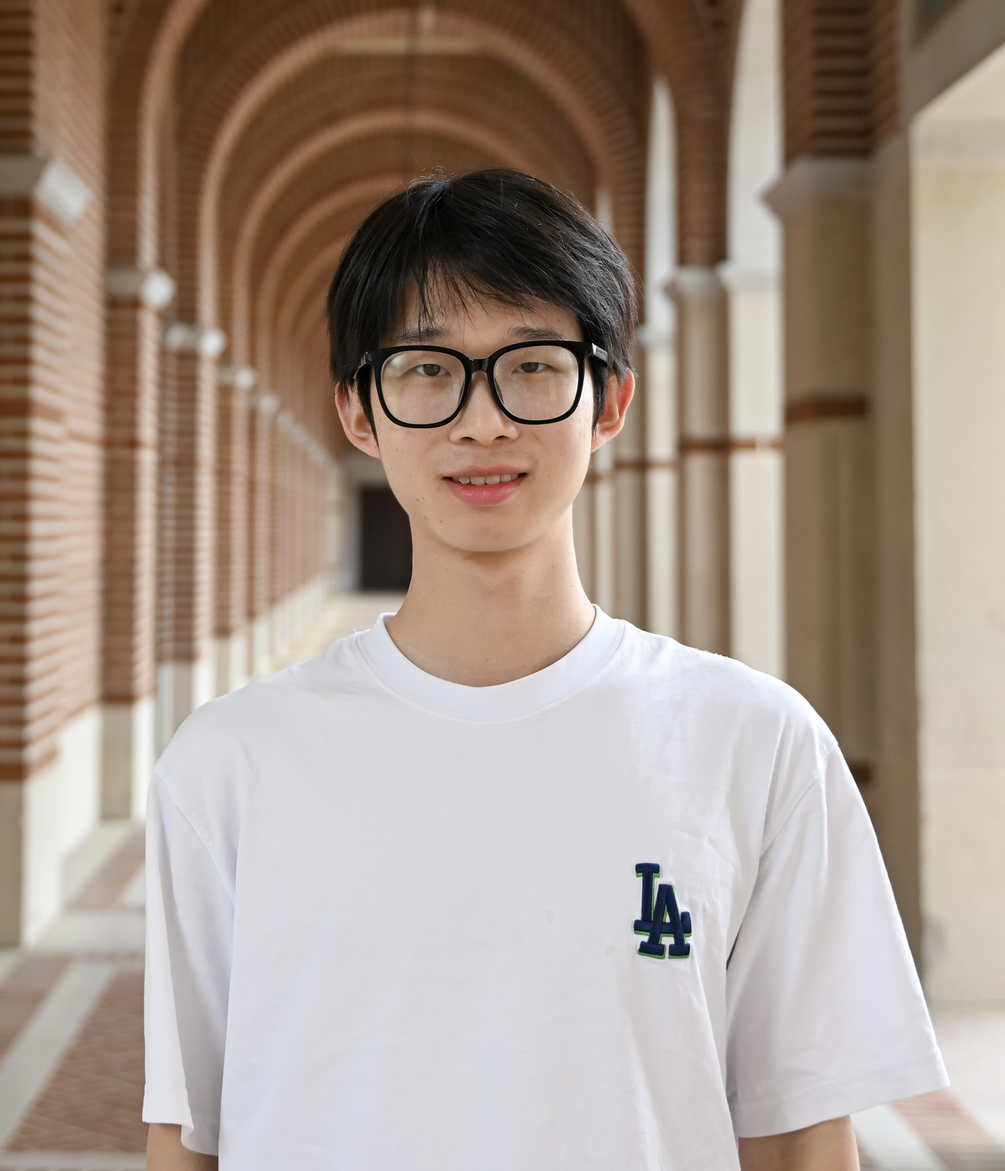
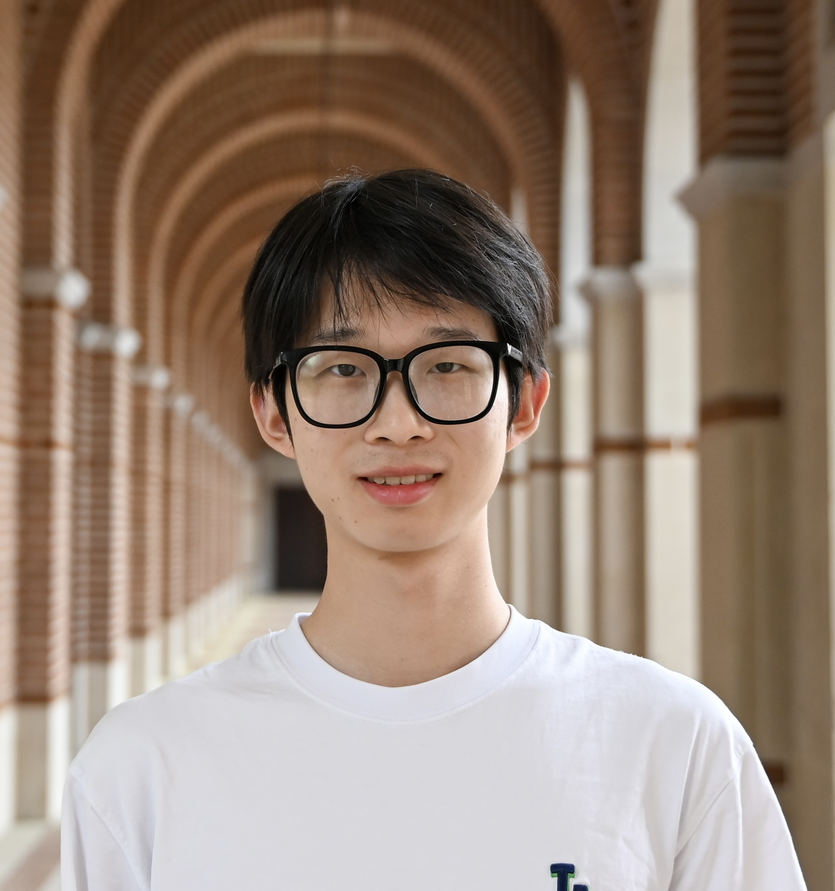
adjust personal picture

diff --git a/index.html b/index.html
@@ -51,7 +51,7 @@
         <div class="pub-info">
           <p class="pub-title">Beyond Static Cutoffs: One-Shot Dynamic Thresholding for Diffusion Language Models</p>
           <p class="pub-authors"><strong>Jucheng Shen</strong>, <a href="https://sites.google.com/view/hey-yeonju">Yeonju Ro</a></p>
-          <p class="pub-venue"><em>NeurIPS 2025 Efficient Reasoning Workshop</em> | <a href="https://arxiv.org/abs/2511.02077">paper</a> | <a href="https://github.com/juchengshen/osdt">code</a></p>
+          <p class="pub-venue"><em>NeurIPS 2025 ER Workshop</em> | <a href="https://arxiv.org/abs/2511.02077">paper</a> | <a href="https://github.com/juchengshen/osdt">code</a></p>
         </div>
       </div>
 
